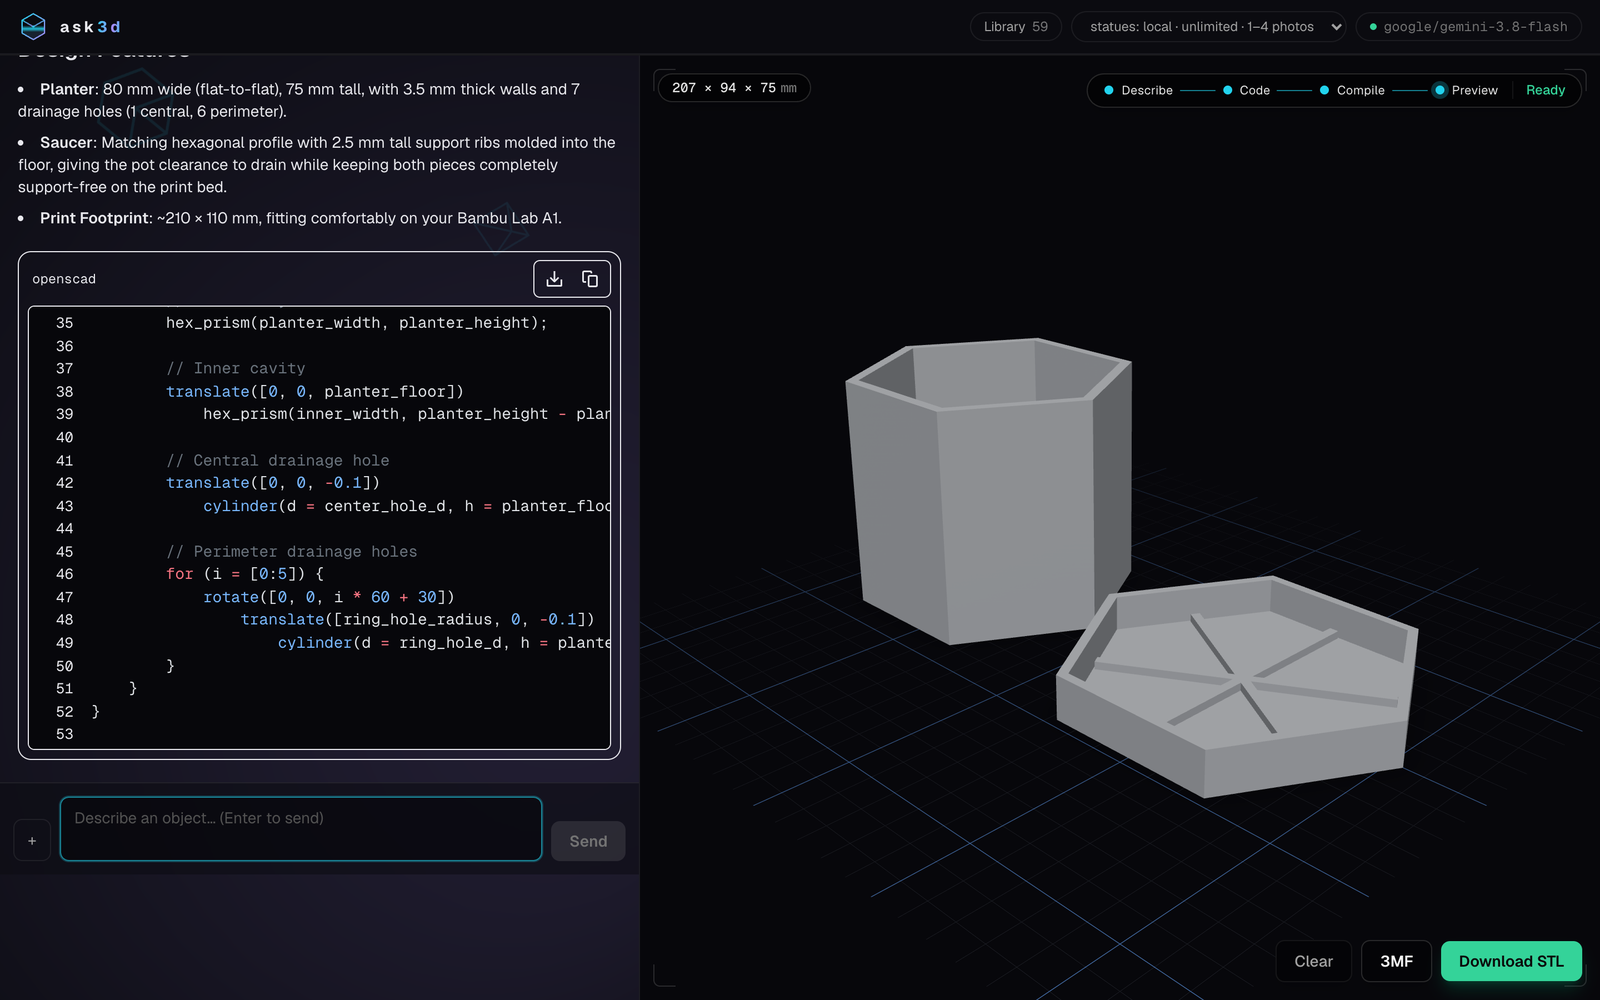
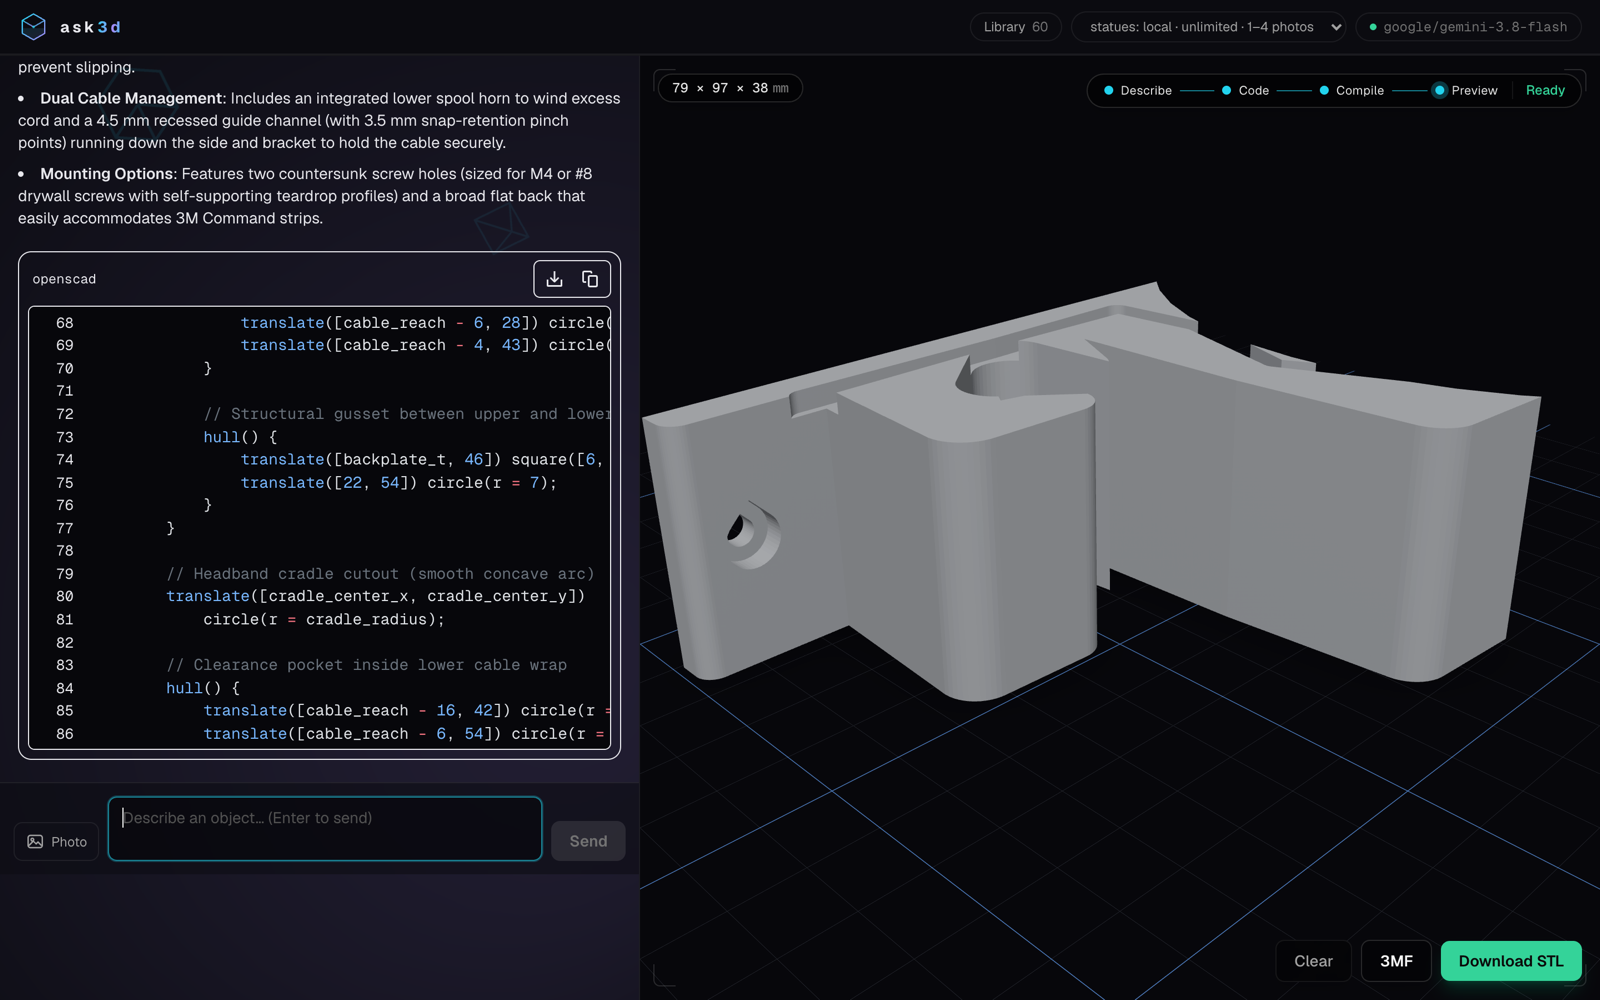
Show the app as it looks now
The README's only screenshot predated the redesign. Replace it and add
three more, each next to the paragraph it makes legible: the first screen
under Quickstart, a sculpted statue under Statues, and a two-colour export
under Multi-colour, where "3MF - 2 colors" says more than the sentence does.

Also note the limit colour-on-an-import really has: the split is by region,
because the model only knows the box an import() occupies.

diff --git a/README.md b/README.md
@@ -22,7 +22,7 @@ an STL or a Bambu-ready 3MF. Refine by talking — *"make the hole bigger"*,
 `stderr` goes back to the model and the program is fixed automatically.
 
 <p align="center">
-  <img src="docs/hero.png" alt="ask3d generating a hexagonal planter and saucer, with the OpenSCAD source beside the 3D preview" width="100%">
+  <img src="docs/hero.png" alt="ask3d answering 'a wall-mounted headphone hook with a cable channel' — the generated OpenSCAD beside the compiled 79 x 97 x 38 mm preview" width="100%">
 </p>
 
 Everything runs locally except the LLM call. No account, no render farm, no
@@ -51,6 +51,10 @@ npm test                    # unit tests
 
 Requires Node >= 22. Prefer configuring by hand? Copy `.env.local.example` to
 `.env.local` and fill in one key instead.
+
+<p align="center">
+  <img src="docs/start.png" alt="ask3d's first screen: starter prompts on the left, an empty build plate on the right" width="100%">
+</p>
 
 > [!WARNING]
 > **There is no login.** Anyone who can reach the server can spend your API key,
@@ -110,10 +114,18 @@ machine — which gets you the cloud engines on a free Hugging Face account. Add
 the part with ~15 GB of weights, which is why it is opt-in rather than cloned.
 See [`statue-service/README.md`](statue-service/README.md).
 
+<p align="center">
+  <img src="docs/statue.png" alt="A photographed figurine sculpted into a watertight 80 x 67 x 70 mm mesh on the build plate" width="62%">
+</p>
+
 🎨 **Multi-colour** — ask for colours and the model structures the program into
 per-colour modules. The app re-renders each group in the background, tints the
 preview, and exports a 3MF of one object with a part per colour, which a Bambu
 AMS maps straight onto filament slots.
+
+<p align="center">
+  <img src="docs/multicolor.png" alt="A two-colour pool ring-toss base, orange pole on a yellow plate, with the export button reading 3MF - 2 colors" width="100%">
+</p>
 
 📚 **Library** — photos, statues and compiled models are kept server-side with
 the prompt that produced them, so every browser pointed at the instance —
@@ -141,6 +153,11 @@ re-test.
   keeps the geometry.
 - Single-photo statues invent the side they cannot see. Eye-level shots on a
   plain background work best.
+- Colouring an **imported** mesh splits it by region, not by feature. The model
+  cannot see inside an `import()` — only the box it occupies — so "make the eyes
+  white" is a guess, while "colour it in three horizontal bands" is reliable. A
+  colour group whose region holds no geometry is reported in the viewer instead
+  of silently dropping the model back to one colour.
 
 ## Licence
 
